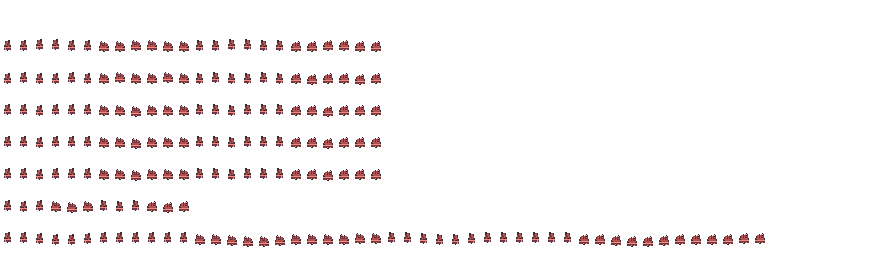
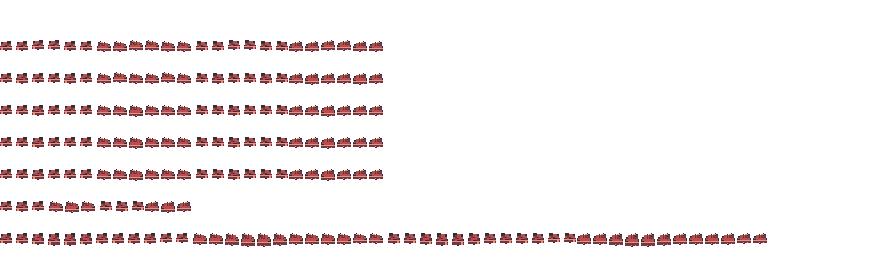
Hats fit the head in every direction; shop prices show
- tools/fit_hats.py (run by the importer): side views of fitted hats take the front view's height and
  cover the head; tall hats sit on one brim line; Cowboy Hat recoloured to leather browns
- Hair lying on the head stays under a hat (the bare scalp showed above low hats)
- Shop buy rows: the price was squeezed to one pixel wide (the stray marks); soft text colour updated
- Screenshot mode hats

Claude-Session: https://claude.ai/code/session_01UCvMP3hAQ7S5xitSmMnWDY

diff --git a/tools/fit_hats.py b/tools/fit_hats.py
@@ -1,0 +1,121 @@
+"""Fit Daniel's Wearables Final hats to the generator heads (Nov 22).
+
+The pack's hats change size and height when the character turns: side views are 7 to 9 px wide on a
+13 px wide head (hair sticks out in front and behind), and sit higher or lower than the front view.
+Some front views (the beanie) are narrower than the head too.
+
+For every animation frame:
+  - hats that hug the head (FITTED): side views get the front view's top and bottom rows (one row shorter,
+    like LimeZu's own hats) and are widened toward the back of the head; front and back are at least 14 px;
+  - tall hats (cone, horns, chef's hat, the Lighthouse) keep their shape and are moved so every view sits
+    on the same brim line;
+  - masks (bandana, gas masks, Grinning Saint) are left alone.
+Resizing keeps the first and last row and column, so outlines are never dropped.
+
+Used by tools/import_packs.py. Run alone: python3 tools/fit_hats.py <packs folder> <art folder>
+"""
+import os
+import sys
+from PIL import Image
+
+ROW_FRAMES = {1: 6, 2: 6, 3: 6, 4: 6, 5: 6, 6: 3, 7: 12}   # frames per direction in each sheet row
+RIGHT, UP, LEFT, DOWN = 0, 1, 2, 3
+MASKS = {"HEAD-003", "HEAD-005", "HEAD-012", "HEAD-020"}
+FITTED = {"HEAD-001", "HEAD-002", "HEAD-004", "HEAD-006", "HEAD-007", "HEAD-008", "HEAD-009", "HEAD-010",
+          "HEAD-011", "HEAD-013", "HEAD-014", "HEAD-015", "HEAD-016", "HEAD-017", "HEAD-018", "HEAD-021"}
+MIN_W = 14        # front and back: the head is 14 px wide
+HEAD_TOP = 10      # the generator head's top row (idle and walk; attacks lean a little)
+SIDE_W = 12       # side: the head is 13 px wide; one pixel of forehead shows under the brim
+
+
+def _resize(im, w, h):
+    """Nearest-neighbour resize that always keeps the edge rows and columns."""
+    sw, sh = im.size
+    out = Image.new("RGBA", (w, h), (0, 0, 0, 0))
+    sp, op = im.load(), out.load()
+    for y in range(h):
+        sy = 0 if h == 1 else round(y * (sh - 1) / (h - 1))
+        for x in range(w):
+            sx = 0 if w == 1 else round(x * (sw - 1) / (w - 1))
+            op[x, y] = sp[sx, sy]
+    return out
+
+
+# Cowboy Hat: its crown was a skin-like tan, so it read as a bald head with a dark band across the eyes.
+# Recoloured to leather browns, darkest at the brim.
+RECOLOUR = {"HEAD-021": {(0xBA, 0x8B, 0x61): (0x8E, 0x5C, 0x3A), (0x87, 0x5C, 0x48): (0x6A, 0x40, 0x28),
+                         (0x41, 0x48, 0x58): (0x4A, 0x2E, 0x1E)}}
+
+
+def fit(sheet, code):
+    if code in MASKS or not code.startswith("HEAD"):
+        return sheet
+    if code in RECOLOUR:
+        sheet = sheet.copy()
+        px, rc = sheet.load(), RECOLOUR[code]
+        for y in range(sheet.height):
+            for x in range(sheet.width):
+                c = px[x, y]
+                if c[3] and c[:3] in rc:
+                    px[x, y] = rc[c[:3]] + (c[3],)
+    out = Image.new("RGBA", sheet.size, (0, 0, 0, 0))
+    for row, n in ROW_FRAMES.items():
+        cy = row * 32
+        if cy + 32 > sheet.height:
+            continue
+        for d in range(4):
+            for f in range(n):
+                cx = (d * n + f) * 16
+                cell = sheet.crop((cx, cy, cx + 16, cy + 32))
+                box = cell.getbbox()
+                if box is None:
+                    continue
+                front = sheet.crop(((DOWN * n + f) * 16, cy, (DOWN * n + f) * 16 + 16, cy + 32)).getbbox() or box
+                l, t, r, b = box
+                w, h = r - l, b - t
+                side = d in (RIGHT, LEFT)
+                if code in FITTED:
+                    # fitted hats: the side view takes the front view's height and grows to cover the head
+                    top = min(front[1], HEAD_TOP - 1)     # cover the top of the head, or the hair shows above the crown
+                    if side:
+                        t2, b2 = top, max(top + 2, front[3] - 1)
+                        w2 = max(w, SIDE_W)
+                    else:
+                        t2, b2 = min(t, HEAD_TOP - 1), b
+                        w2 = max(w, MIN_W)
+                else:
+                    # tall hats (cone, horns, chef's hat, lamp): keep their shape, just sit every view at the
+                    # same brim line; the front sat higher than the side, perched on top of the hair
+                    side_cell = sheet.crop(((RIGHT * n + f) * 16, cy, (RIGHT * n + f) * 16 + 16, cy + 32)).getbbox() or front
+                    brim = min(31, max(front[3], side_cell[3] + 1))
+                    shift = (brim - 1 - b) if side else (brim - b)
+                    t2, b2 = t + shift, b + shift
+                    w2 = w
+                w2 = min(w2, 16)
+                h2 = b2 - t2
+                piece = cell.crop(box)
+                if (w2, h2) != (w, h):
+                    piece = _resize(piece, w2, h2)
+                centre = (l + r) / 2.0
+                x2 = int(round(centre - w2 / 2.0))
+                if side and code in FITTED and w2 > w:
+                    # grow toward the back of the head (the face side keeps its brim or visor where it was)
+                    x2 = (r - w2) if d == RIGHT else l
+                x2 = max(0, min(16 - w2, x2))
+                out.alpha_composite(piece, (cx + x2, cy + t2))
+    return out
+
+
+if __name__ == "__main__":
+    src, art = sys.argv[1], sys.argv[2]
+    import re
+    gear = open(os.path.join(os.path.dirname(os.path.abspath(art)), "scripts", "autoload", "gear_db.gd")).read()
+    code_to_id = {c: i for i, c in re.findall(r'"id": "([a-z0-9_]+)", "code": "([A-Z]+-\d+)"', gear)}
+    sd = os.path.join(src, "Wearables_Final", "Head", "existing_mi_16x32", "full_generator_sheets")
+    for fn in sorted(os.listdir(sd)):
+        code = fn[:-4]
+        if code in MASKS or code not in code_to_id:
+            continue
+        sh = fit(Image.open(os.path.join(sd, fn)).convert("RGBA"), code)
+        sh.save(os.path.join(art, "characters", "mi", "wear", code_to_id[code] + ".png"))
+        print("fitted", code, code_to_id[code])

diff --git a/tools/import_packs.py b/tools/import_packs.py
@@ -2342,6 +2342,10 @@ if os.path.isdir(WF):
                         c = px[x, y]
                         if c[3] and c[:3] in RE: px[x, y] = RE[c[:3]] + (c[3],)
             if code in HEAVY: sh = shoulders(sh)
+            if code.startswith("HEAD"):
+                sys.path.insert(0, os.path.dirname(os.path.abspath(__file__)))
+                import fit_hats
+                sh = fit_hats.fit(sh, code)          # same size and brim line in every direction (Nov 22)
             save(sh, "characters/mi/wear/%s.png" % gid)
             save(Image.open(os.path.join(WF, slot, "inventory_16", fn)).convert("RGBA"), "icons/%s.png" % gid)
             n += 1
